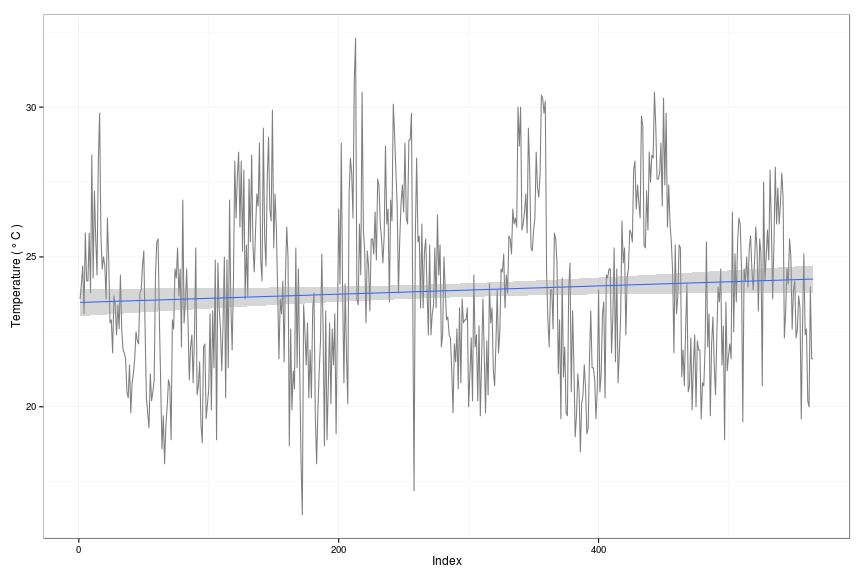
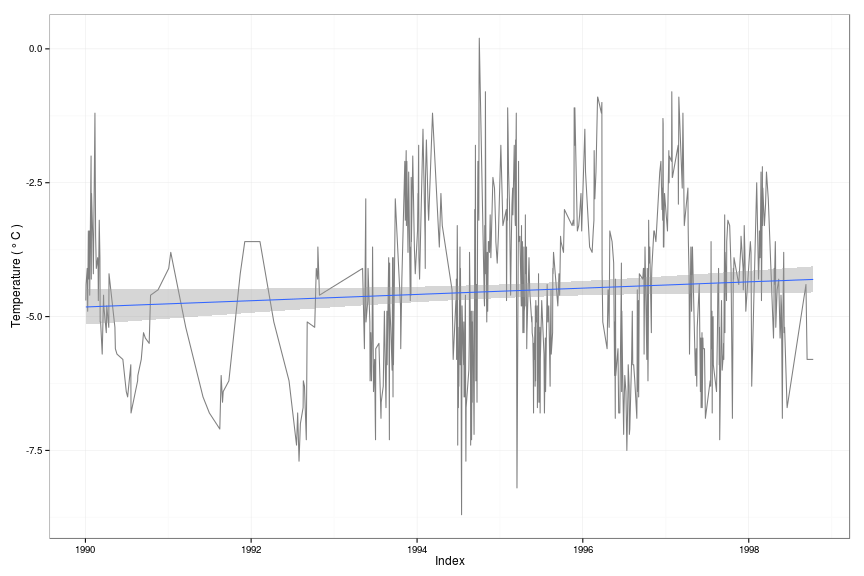
Update: improved download plotting routine.

diff --git a/README.md b/README.md
@@ -191,7 +191,7 @@ also determine whether to extract the zipped files and remove the *.gz files
 after extraction. In this case, the function returns a `data.frame` rather than
 a vector of *.gz filepaths. Note that, for each year and station, the function 
 automatically checks if data is already present in the specified destination 
-folder. If so, the referring download will automatically be skipped and the next
+folder. If so, the referring download will be skipped and the 
 subsequent download query will be evaluated. Here is an example on data 
 download including visualization of the daily mean air temperature from Moshi, 
 Tanzania, for the years 1990 to 2000. 
@@ -206,13 +206,31 @@ gsod_moshi <- dlGsodStations(usaf = moshi$USAF,
 ```
 
 ```
-## Processing GSOD station 637900 (MOSHI) ...
+## Processing GSOD station 637900 (MOSHI) ... 
+## File /mnt/windows/Permanent/repositories/GSODTools/data/moshi//637900-99999-1990.op.gz already exists. Proceeding to next file... 
+## File /mnt/windows/Permanent/repositories/GSODTools/data/moshi//637900-99999-1991.op.gz already exists. Proceeding to next file... 
+## File /mnt/windows/Permanent/repositories/GSODTools/data/moshi//637900-99999-1992.op.gz already exists. Proceeding to next file... 
+## File /mnt/windows/Permanent/repositories/GSODTools/data/moshi//637900-99999-1993.op.gz already exists. Proceeding to next file... 
+## File /mnt/windows/Permanent/repositories/GSODTools/data/moshi//637900-99999-1994.op.gz already exists. Proceeding to next file... 
+## File /mnt/windows/Permanent/repositories/GSODTools/data/moshi//637900-99999-1995.op.gz already exists. Proceeding to next file... 
+## File /mnt/windows/Permanent/repositories/GSODTools/data/moshi//637900-99999-1996.op.gz already exists. Proceeding to next file... 
+## File /mnt/windows/Permanent/repositories/GSODTools/data/moshi//637900-99999-1997.op.gz already exists. Proceeding to next file... 
+## File /mnt/windows/Permanent/repositories/GSODTools/data/moshi//637900-99999-1998.op.gz already exists. Proceeding to next file... 
+## File /mnt/windows/Permanent/repositories/GSODTools/data/moshi//637900-99999-1999.op.gz already exists. Proceeding to next file... 
+## File /mnt/windows/Permanent/repositories/GSODTools/data/moshi//637900-99999-2000.op.gz already exists. Proceeding to next file...
 ```
 
 ```r
 # Plot temperature data (but: time series not continuous!)
 library(ggplot2)
-ggplot(aes(y = toCelsius(TEMP, 1), x = seq(TEMP)), data = gsod_moshi) + 
+
+# Remove obsolete columns
+gsod_moshi <- gsod_moshi[, -grep("NC", names(gsod_moshi))]
+# Reformat date and temperature column
+gsod_moshi$YEARMODA <- as.Date(strptime(gsod_moshi$YEARMODA, format = "%Y%m%d"))
+gsod_moshi$TEMP <- toCelsius(gsod_moshi$TEMP, digits = 1)
+
+ggplot(aes(y = toCelsius(TEMP, 1), x = YEARMODA), data = gsod_moshi) + 
   geom_line(color = "grey50") + 
   stat_smooth(method = "lm") + 
   labs(x = "Index", y = expression("Temperature (" ~ degree ~ C ~ ")")) +
